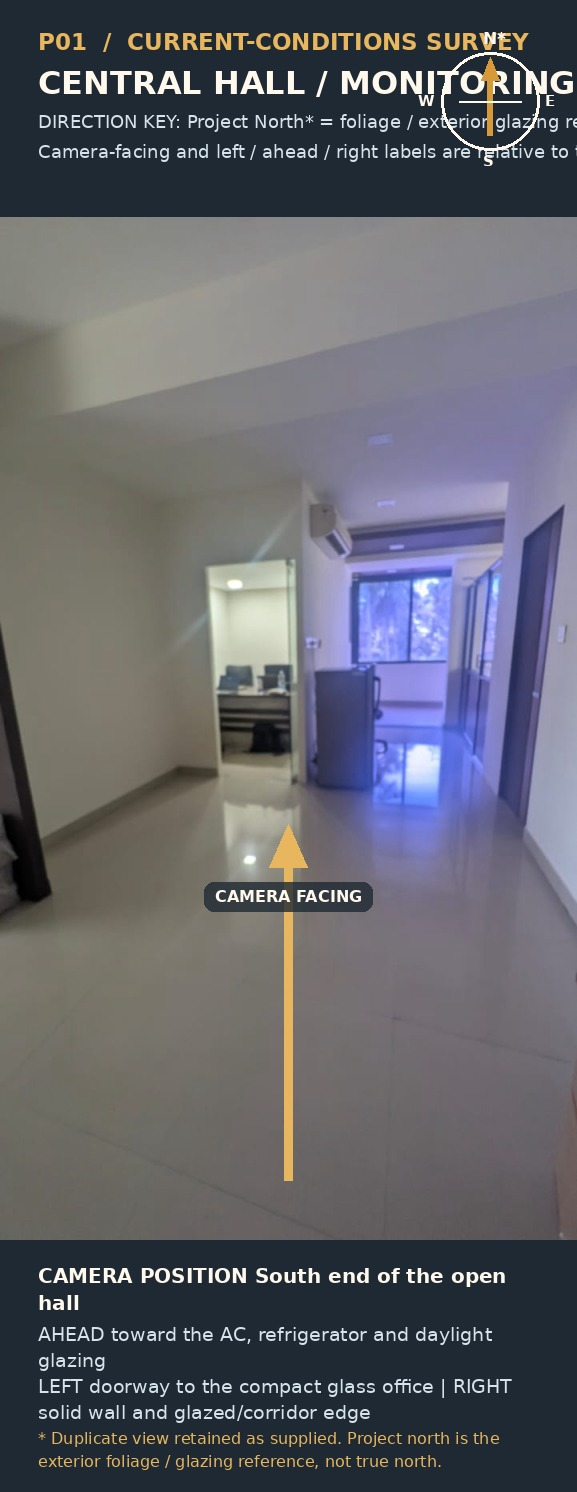
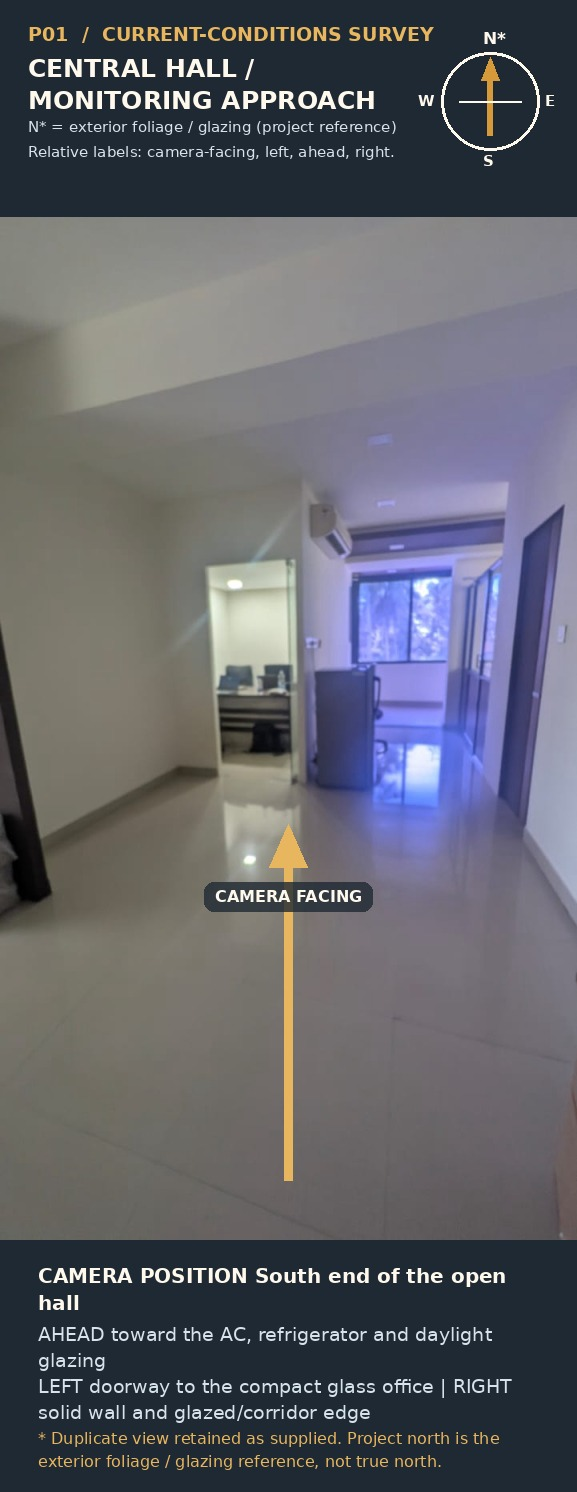
Improve Roza Lab directional survey plates

Changed region(s): [[0.0312, 0.0, 1.0, 0.1233]]

diff --git a/docs/roza-lab/generate_assets.py b/docs/roza-lab/generate_assets.py
@@ -234,10 +234,17 @@ def make_plate(record: dict) -> None:
     draw = ImageDraw.Draw(canvas, "RGBA")
 
     draw.rectangle((0, 0, image.width, header_h), fill="#1F2933")
-    draw.text((38, 28), f"{record['id']}  /  CURRENT-CONDITIONS SURVEY", font=font(23, True), fill="#E8B65E")
-    draw.text((38, 64), record["zone"].upper(), font=font(32, True), fill="#FFF8ED")
-    draw.text((38, 111), "DIRECTION KEY: Project North* = foliage / exterior glazing reference", font=font(18), fill="#D7E3EA")
-    draw.text((38, 141), "Camera-facing and left / ahead / right labels are relative to this photo.", font=font(18), fill="#D7E3EA")
+    draw.text((28, 23), f"{record['id']}  /  CURRENT-CONDITIONS SURVEY", font=font(19, True), fill="#E8B65E")
+    title_bottom = bounded_text(
+        draw,
+        (28, 53),
+        record["zone"].upper(),
+        image.width - 195,
+        font(25, True),
+        "#FFF8ED",
+    )
+    draw.text((28, title_bottom + 1), "N* = exterior foliage / glazing (project reference)", font=font(15), fill="#D7E3EA")
+    draw.text((28, title_bottom + 26), "Relative labels: camera-facing, left, ahead, right.", font=font(15), fill="#D7E3EA")
     draw_compass(draw, image.width - 87, 101)
 
     # Directional field-of-view arrow in the image body.
